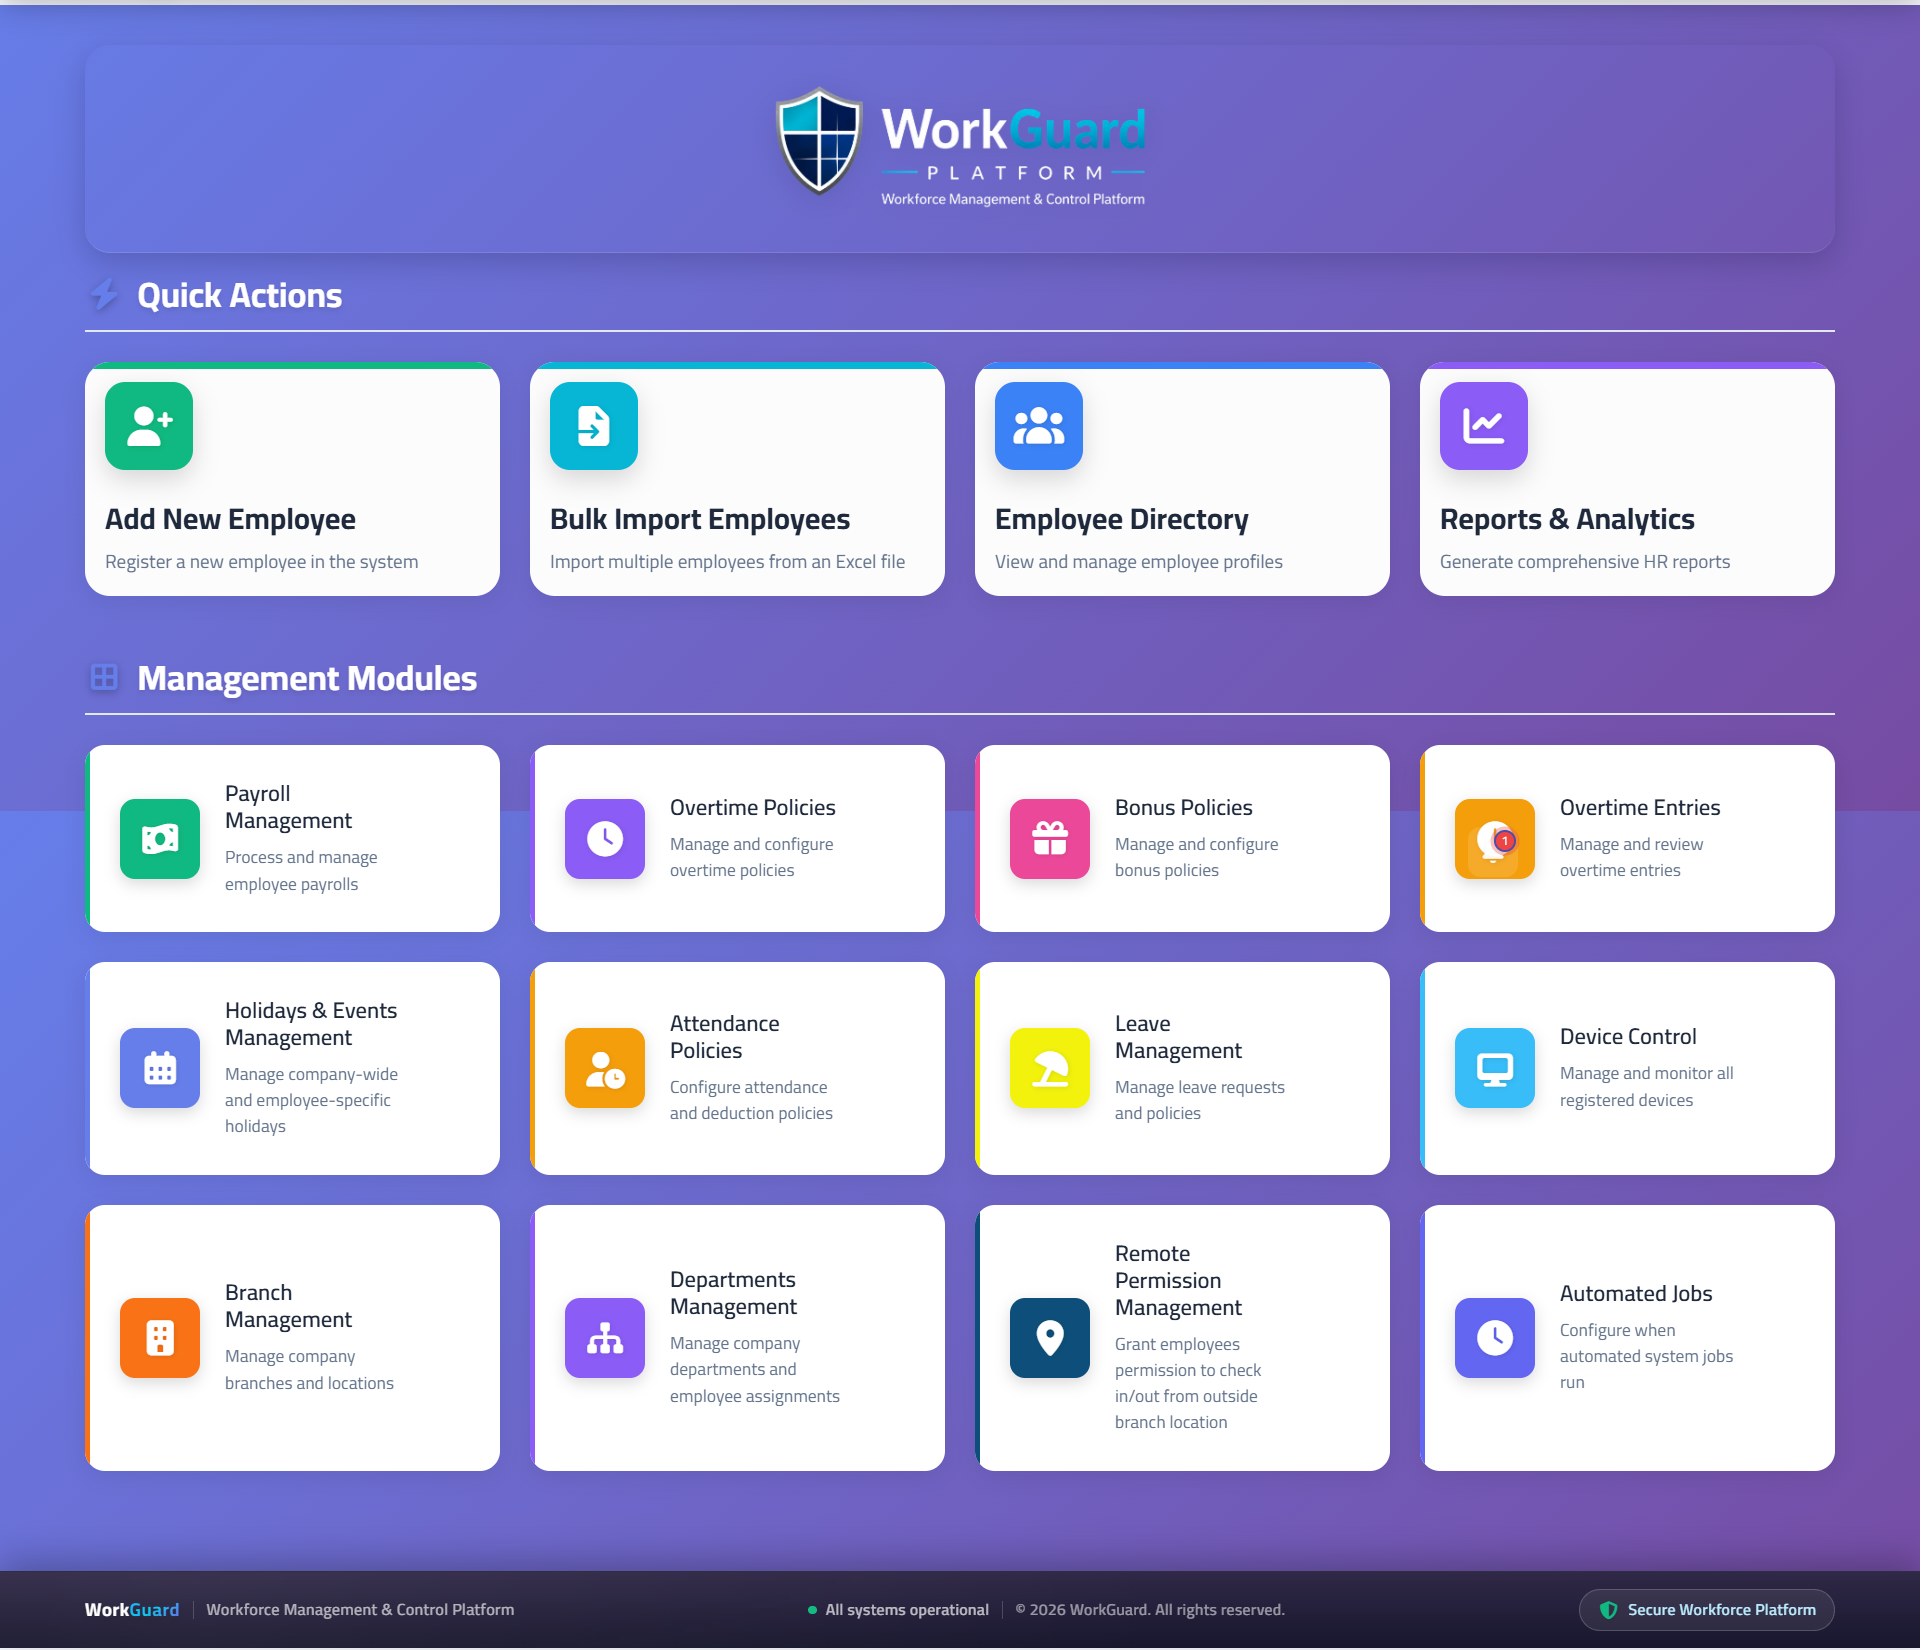
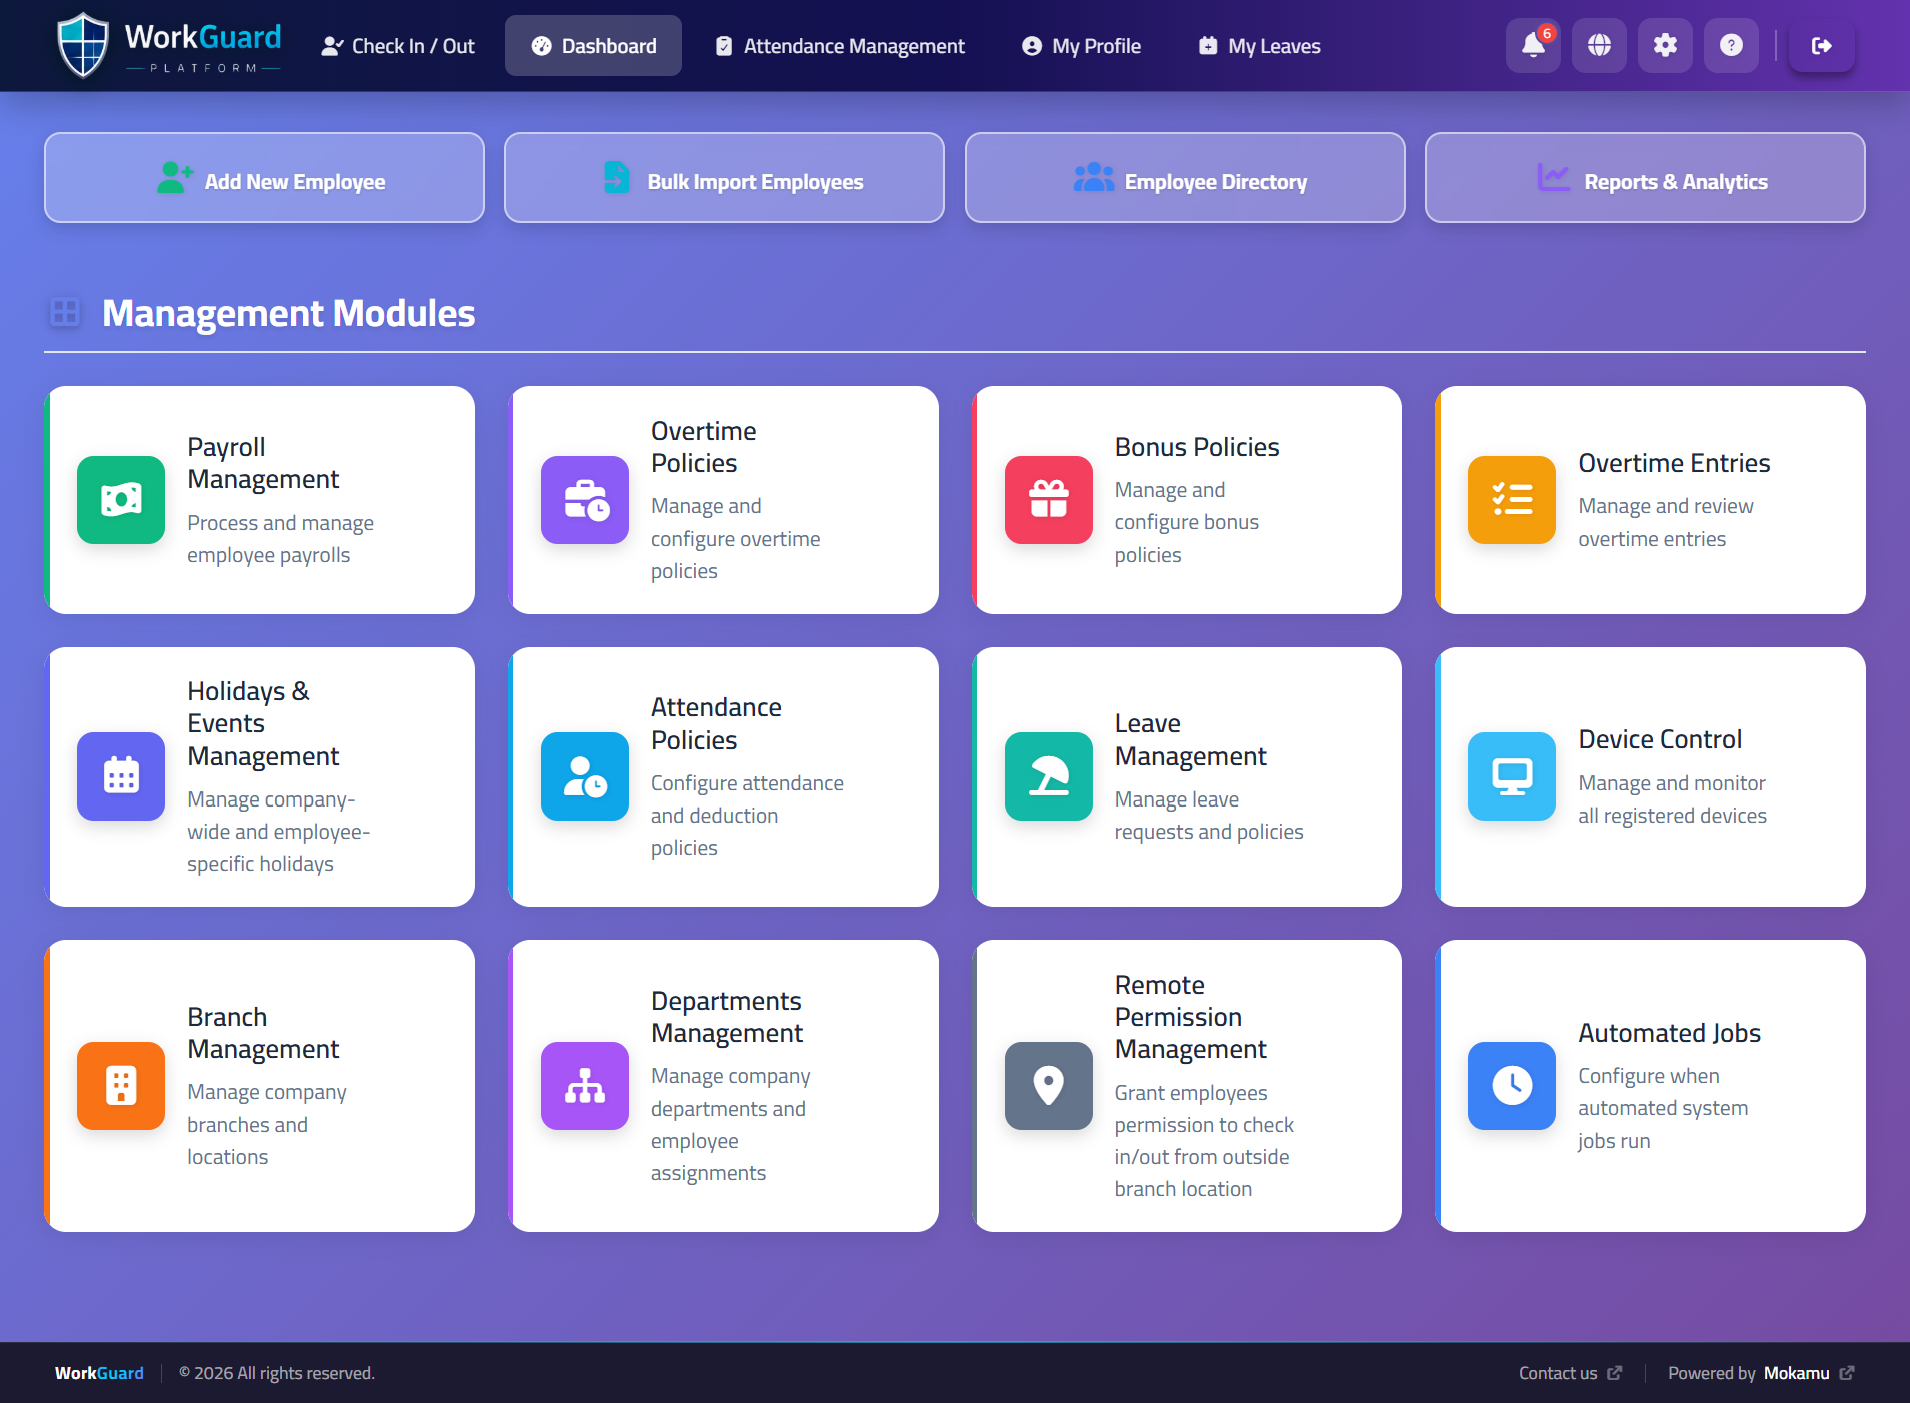
replaced dashboard img

diff --git a/src/pages/public/AboutWorkGuard.jsx b/src/pages/public/AboutWorkGuard.jsx
@@ -1,217 +1,3 @@
-// // src/pages/public/AboutWorkGuard.jsx
-
-// import PageHeader from '../../components/PageHeader'
-
-// export default function AboutWorkGuard() {
-//   return (
-//     <>
-//       <PageHeader
-//         eyebrow="About"
-//         title="About WorkGuard"
-//         description="WorkGuard is a modern workforce management platform developed and operated by Mokamu, designed to help organizations manage their workforce with greater accuracy, transparency, and efficiency."
-//       />
-
-//       <div className="wg-section">
-//         <h2>Our Mission</h2>
-
-//         <p>
-//           Our mission is to simplify workforce management by replacing fragmented and manual HR processes with a secure, transparent, and easy-to-use digital platform.
-
-//           {/* WorkGuard is a modern workforce management platform that helps
-//           organizations simplify attendance tracking, payroll processing,
-//           leave management, employee operations, and workforce productivity. */}
-//         </p>
-
-//         <p>
-//           Our mission is to replace manual HR processes with a secure,
-//           transparent, and easy-to-use platform that saves time,
-//           improves accuracy, and scales with growing businesses.
-//         </p>
-//       </div>
-
-//       <hr className="wg-divider" />
-
-//       <div className="wg-section">
-//         <h2>Why WorkGuard?</h2>
-
-//         <ul className="wg-priority-list">
-//           <li>
-//             <span className="wg-priority-num">✓</span>
-//             <div>GPS, Wi-Fi, and registered-device attendance verification</div>
-//           </li>
-
-//           <li>
-//             <span className="wg-priority-num">✓</span>
-//             <div>Biometric verification support</div>
-//           </li>
-
-//           <li>
-//             <span className="wg-priority-num">✓</span>
-//             <div>Automated payroll calculations</div>
-//           </li>
-
-//           <li>
-//             <span className="wg-priority-num">✓</span>
-//             <div>Leave and holiday management</div>
-//           </li>
-
-//           <li>
-//             <span className="wg-priority-num">✓</span>
-//             <div>Flexible overtime and bonus policies</div>
-//           </li>
-
-//           <li>
-//             <span className="wg-priority-num">✓</span>
-//             <div>Detailed reports and analytics</div>
-//           </li>
-
-//           <li>
-//             <span className="wg-priority-num">✓</span>
-//             <div>Multi-branch organizations with role-based access control</div>
-//           </li>
-//         </ul>
-//       </div>
-
-//       <hr className="wg-divider" />
-
-//       <div className="wg-section">
-//         <h2>Get in Touch</h2>
-
-//         <p>
-//           Interested in WorkGuard, have questions about the platform,
-//           or would like to discuss using it within your organization?
-//           We'd love to hear from you.
-//         </p>
-
-//         <div className="wg-table-wrap">
-//           <table className="wg-table">
-//             <thead>
-//               <tr>
-//                 <th>Contact</th>
-//                 <th>Details</th>
-//               </tr>
-//             </thead>
-
-//             <tbody>
-//               <tr>
-//   <td>Email</td>
-//   <td>
-//     <a href="mailto:contact@mokamu.com">
-//       contact@mokamu.com
-//     </a>
-//   </td>
-// </tr>
-
-//              <tr>
-//   <td>LinkedIn</td>
-//   <td>
-//     <a
-//       href="https://www.linkedin.com/company/workguard-platform"
-//       target="_blank"
-//       rel="noopener noreferrer"
-//     >
-//       WorkGuard Platform
-//     </a>
-//   </td>
-// </tr>
-
-//   <tr>
-//   <td>Instagram</td>
-//   <td>
-//     <a
-//       href="https://www.instagram.com/mokamu.global/"
-//       target="_blank"
-//       rel="noopener noreferrer"
-//     >
-//       mokamu.global
-//     </a>
-//   </td>
-// </tr>
-
-
-//               {/* <tr>
-//   <td>WhatsApp</td>
-//   <td>@workguard</td>
-// </tr> */}
-//             </tbody>
-//           </table>
-//         </div>
-
-//         <div className="wg-callout wg-callout--tip">
-//           <span className="wg-callout__icon">💬</span>
-
-//           <div>
-//             We welcome feedback, feature requests, business inquiries,
-//             and partnership opportunities.
-//           </div>
-//         </div>
-//       </div>
-
-//       <hr className="wg-divider" />
-
-//       <div className="wg-section">
-//         <h2>Platform Information</h2>
-
-//         <div className="wg-table-wrap">
-//           <table className="wg-table">
-//             <thead>
-//               <tr>
-//                 <th>Item</th>
-//                 <th>Value</th>
-//               </tr>
-//             </thead>
-
-//             <tbody>
-//               <tr>
-//   <td>Documentation Version
-// </td>
-//   <td>1.0</td>
-// </tr>
-
-//               <tr>
-//                 <td>Last Updated</td>
-//                 <td>July 2026</td>
-//               </tr>
-
-//               <tr>
-//                 <td>Platform</td>
-//                 <td>WorkGuard Workforce Management Platform</td>
-//               </tr>
-//             </tbody>
-//           </table>
-//         </div>
-
-//         <div className="wg-callout wg-callout--tip">
-          
-// <div>
-//   We continuously enhance WorkGuard with new capabilities, improved
-//   performance, and ongoing security updates to support modern workforce
-//   management.
-// </div>
-//         </div>
-//       </div>
-
-
-
-//       <hr className="wg-divider" />
-
-//       <div className="wg-section">
-//         <p
-//           style={{
-//             textAlign: 'center',
-//             color: 'var(--wg-text-muted)',
-//             fontSize: '0.95rem'
-//           }}
-//         >
-//          © 2026 WorkGuard Platform. All rights reserved.
-//         </p>
-//       </div>
-//     </>
-//   )
-// }
-
-
-
 // src/pages/public/AboutWorkGuard.jsx
 
 import PageHeader from '../../components/PageHeader'
@@ -563,8 +349,20 @@ export default function AboutWorkGuard() {
         >
           WorkGuard is a Mokamu product.
           <br />
+           <a
+          href="https://mokamu.com"
+          target="_blank"
+          rel="noopener noreferrer"
+          className="mokamu-brand__link"
+          aria-label="Explore Mokamu website"
+        >
+          Explore Mokamu
+          <i className="fas fa-arrow-up-right-from-square ms-1"></i>
+        </a> 
+        <br/>
           © {new Date().getFullYear()} WorkGuard Platform. All rights reserved.
         </p>
+         
       </div>
     </>
   )

diff --git a/src/index.css b/src/index.css
@@ -953,3 +953,46 @@ margin-top: 2rem;
   }
 
 }
+
+.mokamu-brand__link {
+  display: inline-flex;
+  align-items: center;
+  justify-content: center;
+  gap: 4px;
+
+  margin-top: 10px;
+
+  font-size: 12px;
+  font-weight: 500;
+  letter-spacing: 0.3px;
+
+  color: #38bdf8;
+  text-decoration: none;
+
+  opacity: 0.8;
+  transition: all 0.25s ease;
+}
+
+.mokamu-brand__link:hover {
+  color: #67e8f9;
+  opacity: 1;
+  text-decoration: underline;
+  text-underline-offset: 4px;
+}
+
+.mokamu-brand__link:focus-visible {
+  outline: 2px solid #38bdf8;
+  outline-offset: 4px;
+  border-radius: 3px;
+}
+
+.mokamu-brand {
+  display: flex;
+  flex-direction: column;
+  align-items: center;
+}
+
+.mokamu-brand__link {
+  display: inline-flex;
+  margin-top: 3px;
+}

diff --git a/src/pages/admin/LeaveManagement.jsx b/src/pages/admin/LeaveManagement.jsx
@@ -246,6 +246,7 @@ export default function LeaveManagement() {
           <li>Confirms the leave type is allowed by the policy</li>
           <li>Verifies there's sufficient balance available</li>
           <li>Excludes weekends and public holidays from the effective count</li>
+          <li>For employees assigned to multiple branches, a public holiday at any of their assigned branches excludes that day from the effective count, even if they submitted attendance for another branch that does not observe the holiday</li>
           <li>Confirms at least one working day falls in the requested period</li>
           <li>Creates the request in <strong>pending</strong> status</li>
         </ol>
